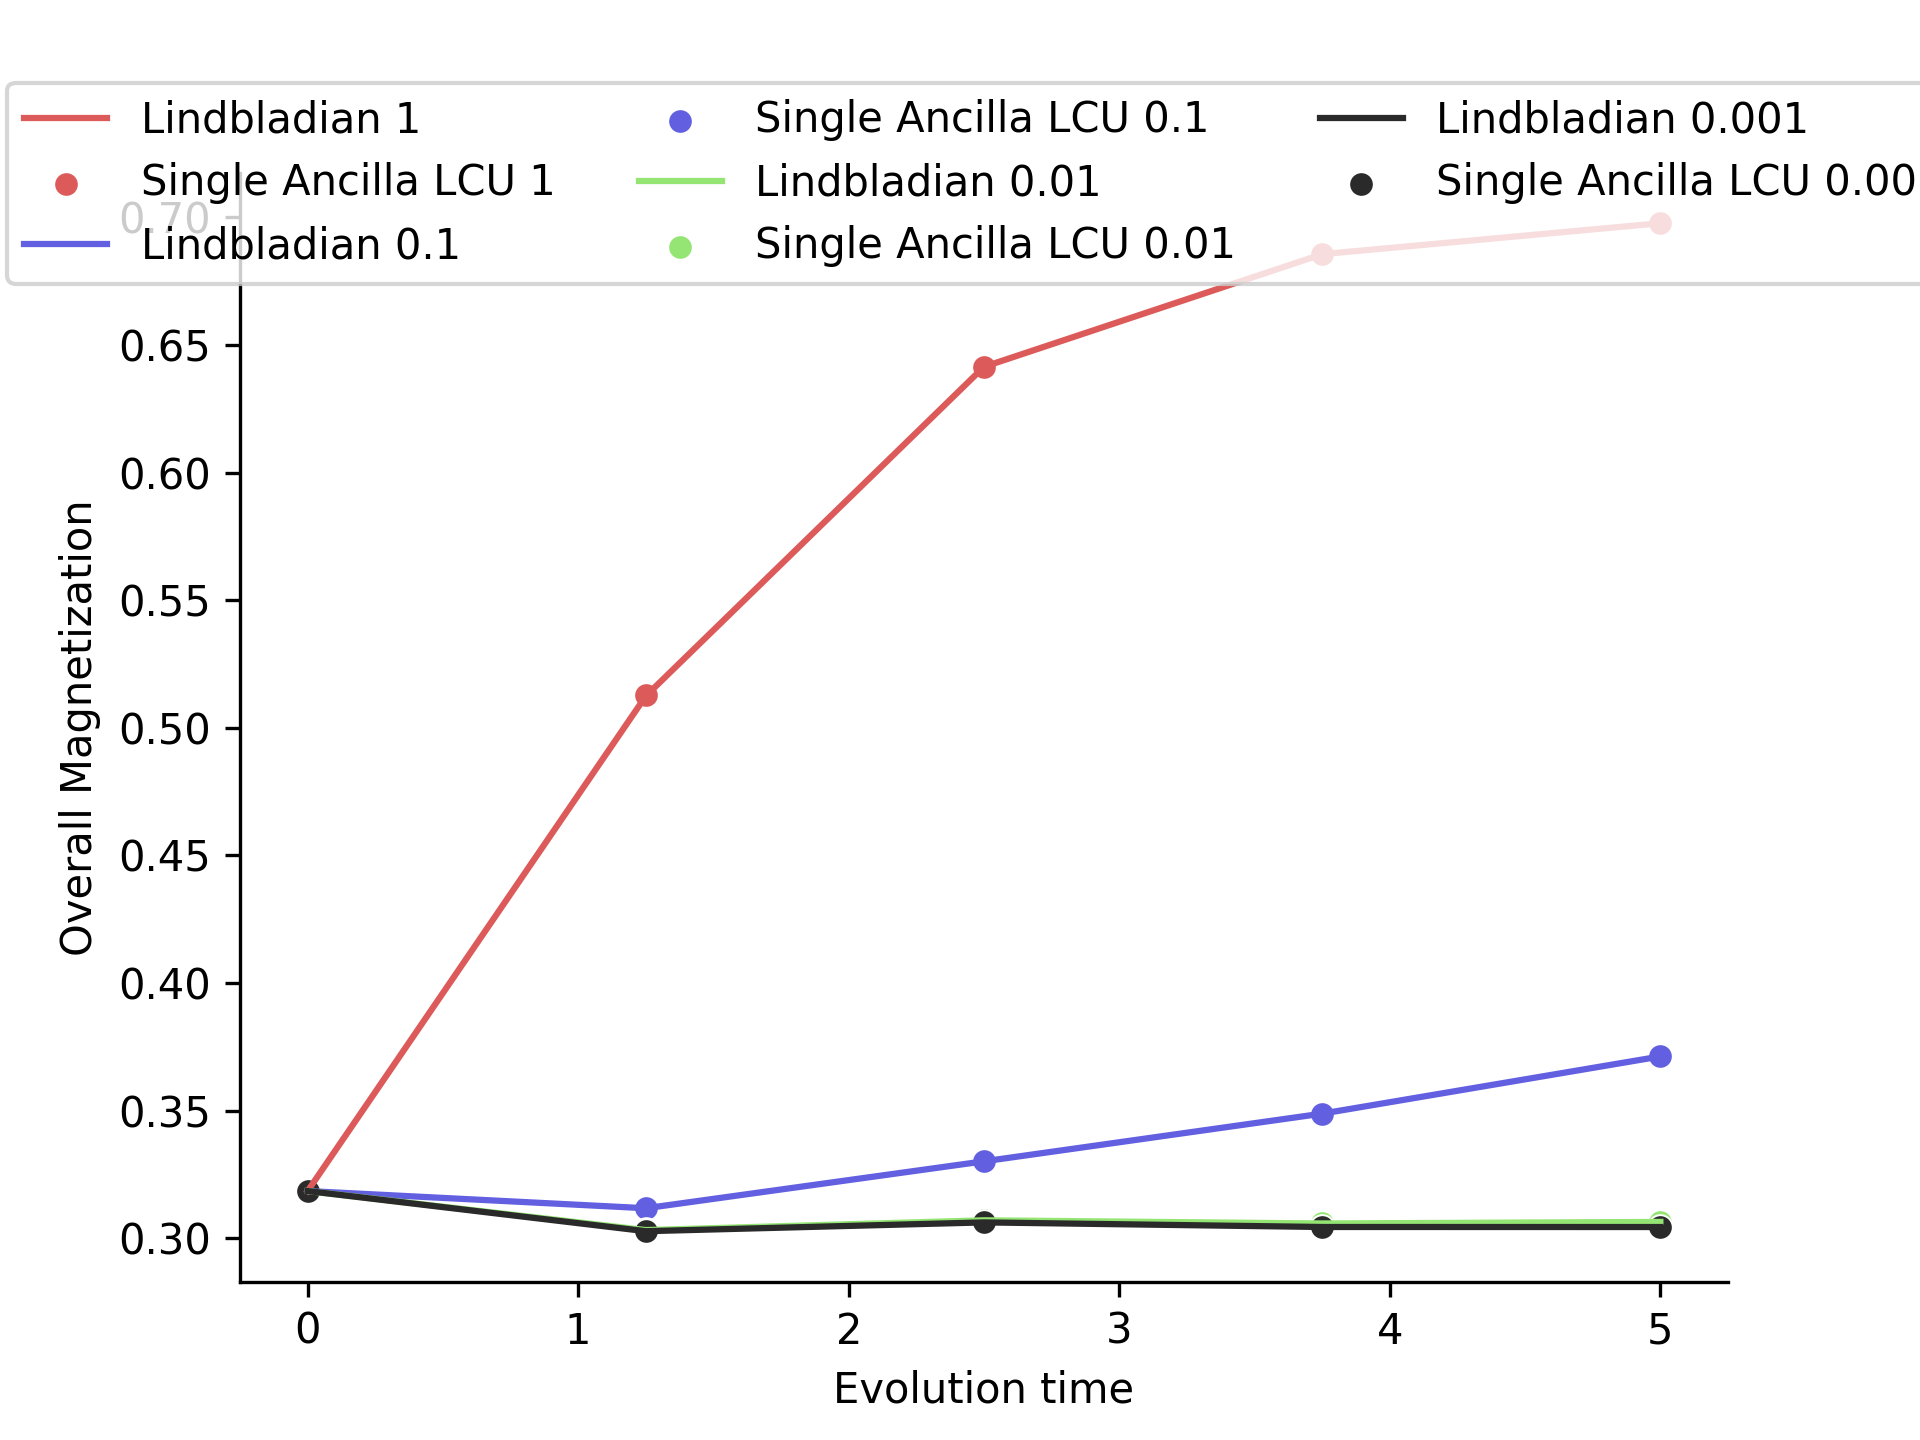
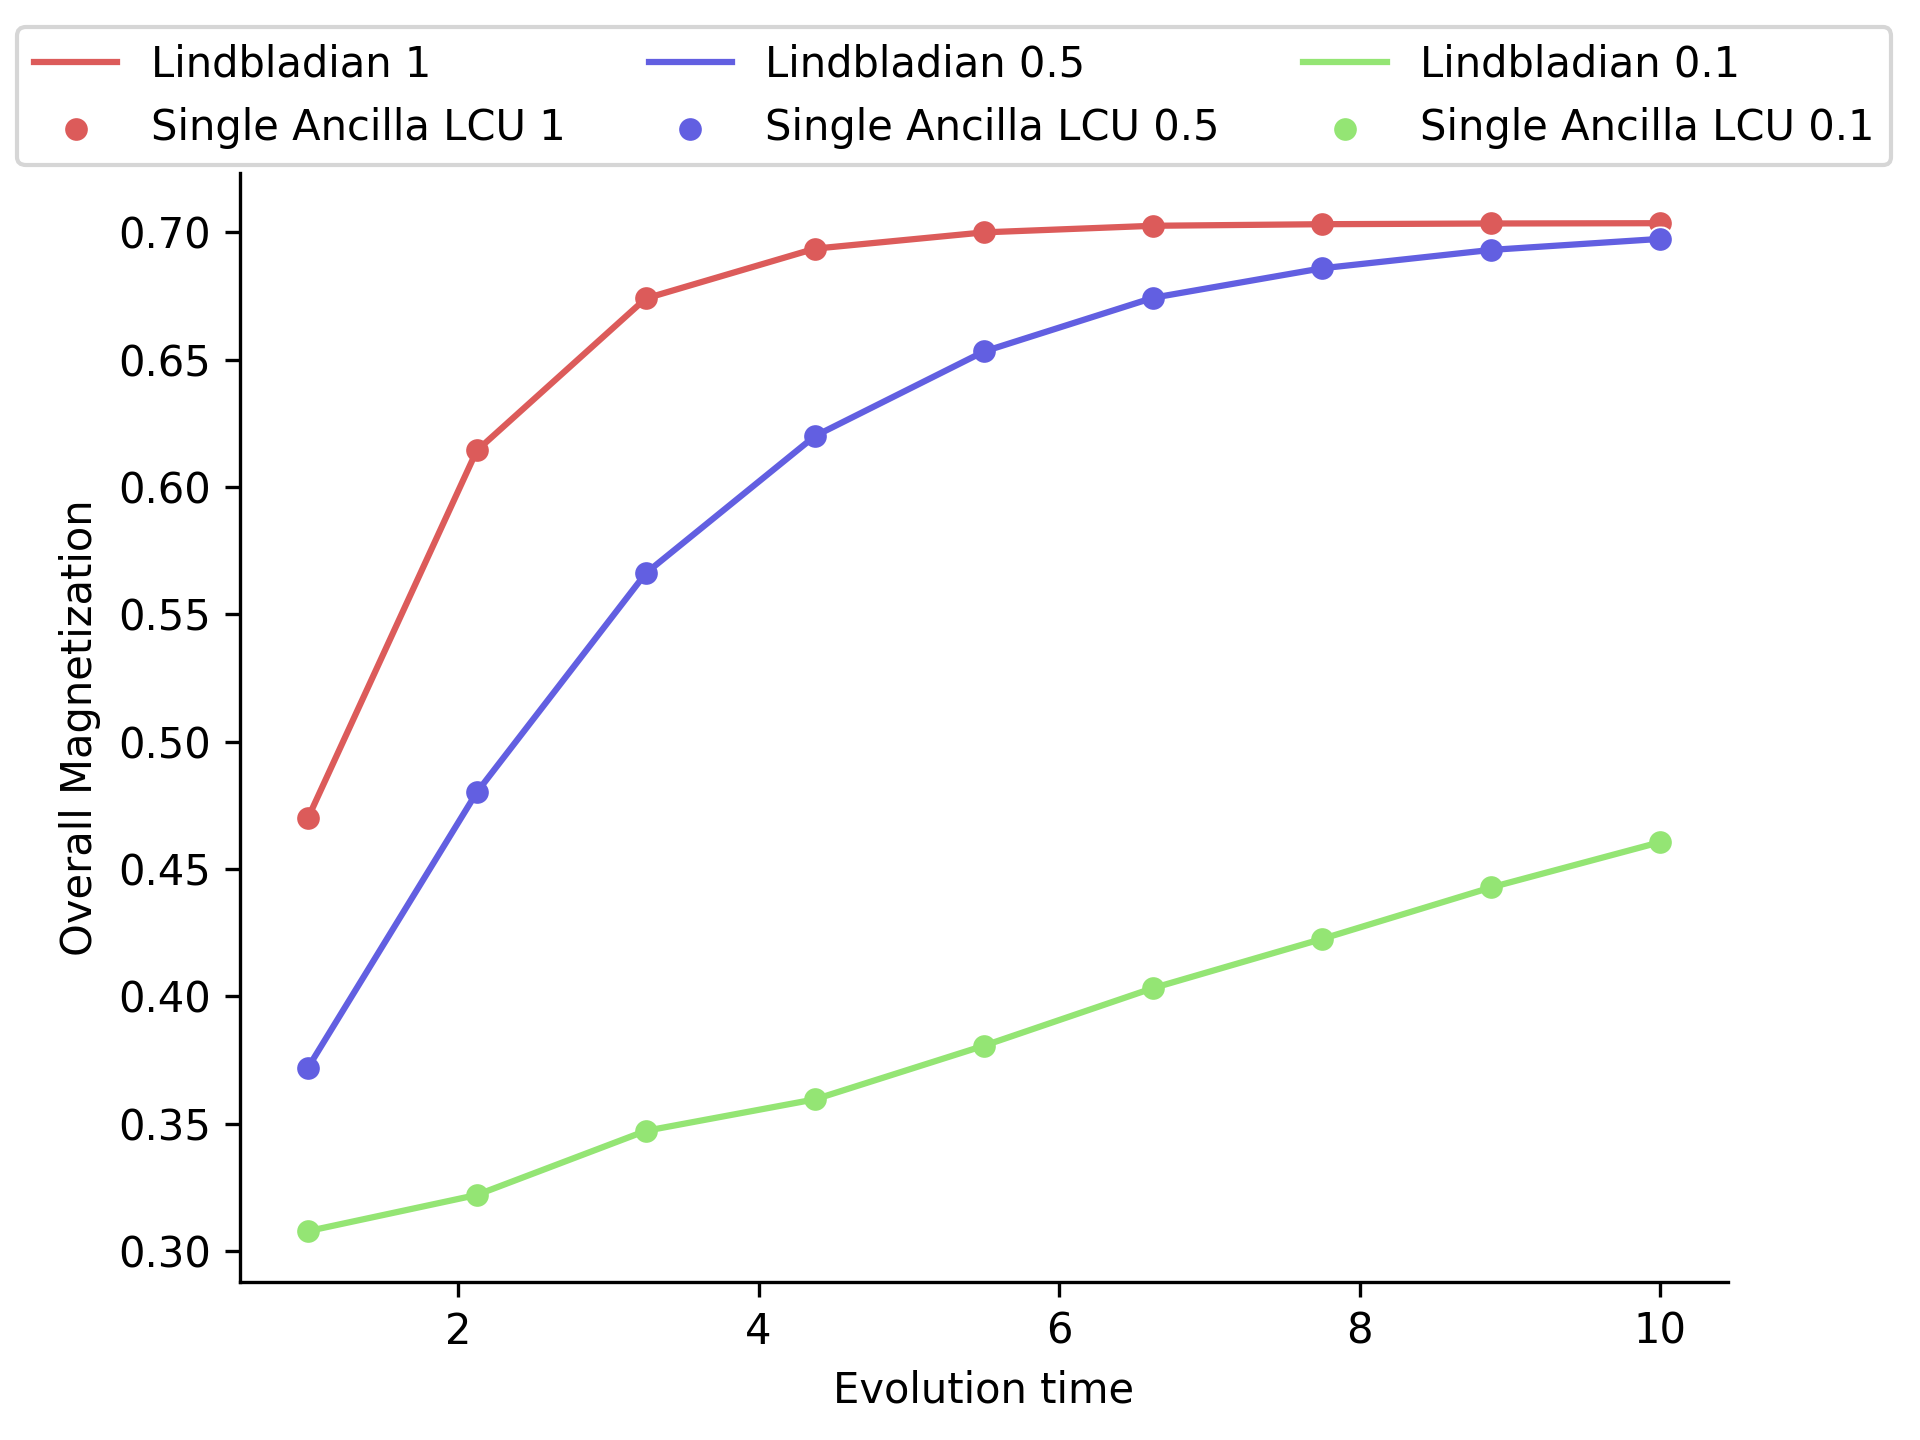
Lindbladian done

diff --git a/ising/lindbladian/simulation/multi_cm_damping_multiple_gamma.py b/ising/lindbladian/simulation/multi_cm_damping_multiple_gamma.py
@@ -23,10 +23,10 @@ def calculate_gamma(beta):
     return np.exp(-beta) / (1 + np.exp(-beta))
 
 
-QUBIT_COUNT = 3
-GAMMAS = [1, 0.1, 0.01, 0.001]
-TIME_RANGE = (0, 5)
-TIME_COUNT = 5
+QUBIT_COUNT = 5
+GAMMAS = [1, 0.5, 0.1]
+TIME_RANGE = (1, 10)
+TIME_COUNT = 9
 EPS = 0.1
 
 H_VAL = -0.1
@@ -233,9 +233,10 @@ def test_main():
     plt.ylabel(r"Overall Magnetization")
     plt.xlabel(r"Evolution time")
 
-    file_name = f"plots/lindbladian/simulation/size_{QUBIT_COUNT}_multi_cm_magn_gamma.png"
+    file_name = f"plots/lindbladian/simulation/size_{QUBIT_COUNT}_multi_cm_magn_gamma_no_legend.png"
 
-    plt.legend(loc="upper center", bbox_to_anchor=(0.5, 1.10), ncol=3, fontsize=10)
+    ax.get_legend().remove()
+    # plt.legend(loc="upper center", bbox_to_anchor=(0.48, 1.15), ncol=3, fontsize=10)
     plt.savefig(file_name, dpi=300)
     print(f"saved the plot to {file_name}")
 
